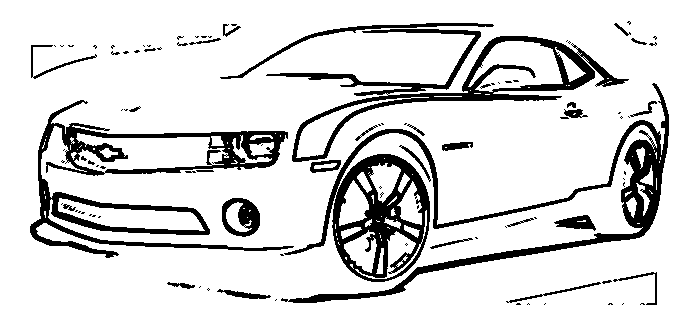
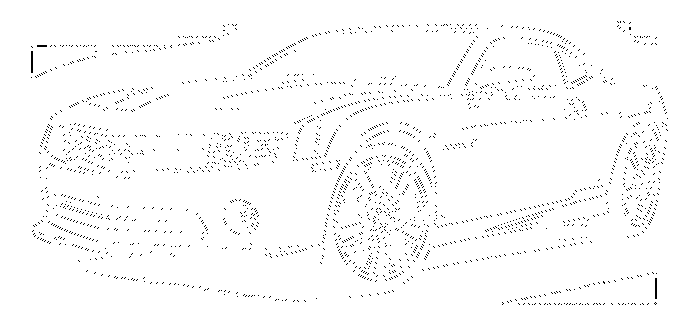
Fixed the edge detection algorithm and added support for orientation detection.

diff --git a/test.py b/test.py
@@ -5,7 +5,7 @@ import itertools
 def gaussian(x, y, sigma):
 	return (1 / (2*math.pi*sigma**2))*math.exp(-(x**2+y**2)/(2*sigma**2))
 
-name = "stapler"
+name = "car"
 
 im = Image.open(name + ".png")
 print im.format, im.size, im.mode
@@ -40,47 +40,50 @@ for x, xval in enumerate(convolution):
 		smoothed_pix[x,y] = int(convolution[x][y])
 smoothed.save(name + "_smoothed.png")
 
-gradient_threshold = 20
+gradient_threshold = 10
 
-neighbor_offsets = [(-1,-1), (-1,0), (-1, 1), (0,1), (0, -1), (1,0), (1,1), (1,-1)]
+neighbor_offsets = [(-1,-1,225), (-1,0,270), (-1,1,315), (0,1,0), (0,-1,180), (1,0,90), (1,1,45), (1,-1,125)]
 
-gradients = [ [0 for col in range(bw.size[1])] for row in range(bw.size[0])]
+gradients = [ [(0,0) for col in range(bw.size[1])] for row in range(bw.size[0])]
 
 # Loop over every pixel in the image and calculate the largest gradient
 for (x,y) in itertools.product(range(bw.size[0]), range(bw.size[1])):
 	pixel = convolution[x][y]
 	# For each immediately neighboring pixel
-	for (uidx, vidx) in neighbor_offsets:
+	for (uidx, vidx, angle) in neighbor_offsets:
 		u = x + uidx
 		v = y + vidx
 		if u < 0 or y < 0 or u >= width or v >= height:
 			continue
 		gradient = abs(convolution[u][v] - pixel)
-		if gradient > gradients[x][y]:
-			gradients[x][y] = gradient
+		if gradient > gradients[x][y][0]:
+			gradients[x][y] = (gradient, angle)
 
 # Draw the edges
 edges = bw.point(lambda i: 255)
 edges_pix = edges.load()
 
+results = [ [(False,0) for col in range(bw.size[1])] for row in range(bw.size[0])]
+
 # Loop over every pixel in the image and determine if it's an edge pixel
 for (x,y) in itertools.product(range(bw.size[0]), range(bw.size[1])):
 	gradient = gradients[x][y]
 	# the gradient must be greater than some threshold set by the user
-	if gradient < gradient_threshold:
+	if gradient[0] < gradient_threshold:
 		continue
 	is_max = True
 	# determine if the gradient is a local maximum
-	for (uidx, vidx) in neighbor_offsets:
+	for (uidx, vidx, angle) in neighbor_offsets:
 		u = x + uidx
 		v = y + vidx
 		if u < 0 or y < 0 or u >= width or v >= height:
 			continue
-		if gradients[u][v] > pixel:
+		if gradients[u][v][0] > gradient[0]:
 			is_max = False
 			break
 	if is_max:
 		edges_pix[x,y] = 0
+		results[x][y] = (True,angle)
 
 edges.save(name + "_edges.png", "PNG")
 
